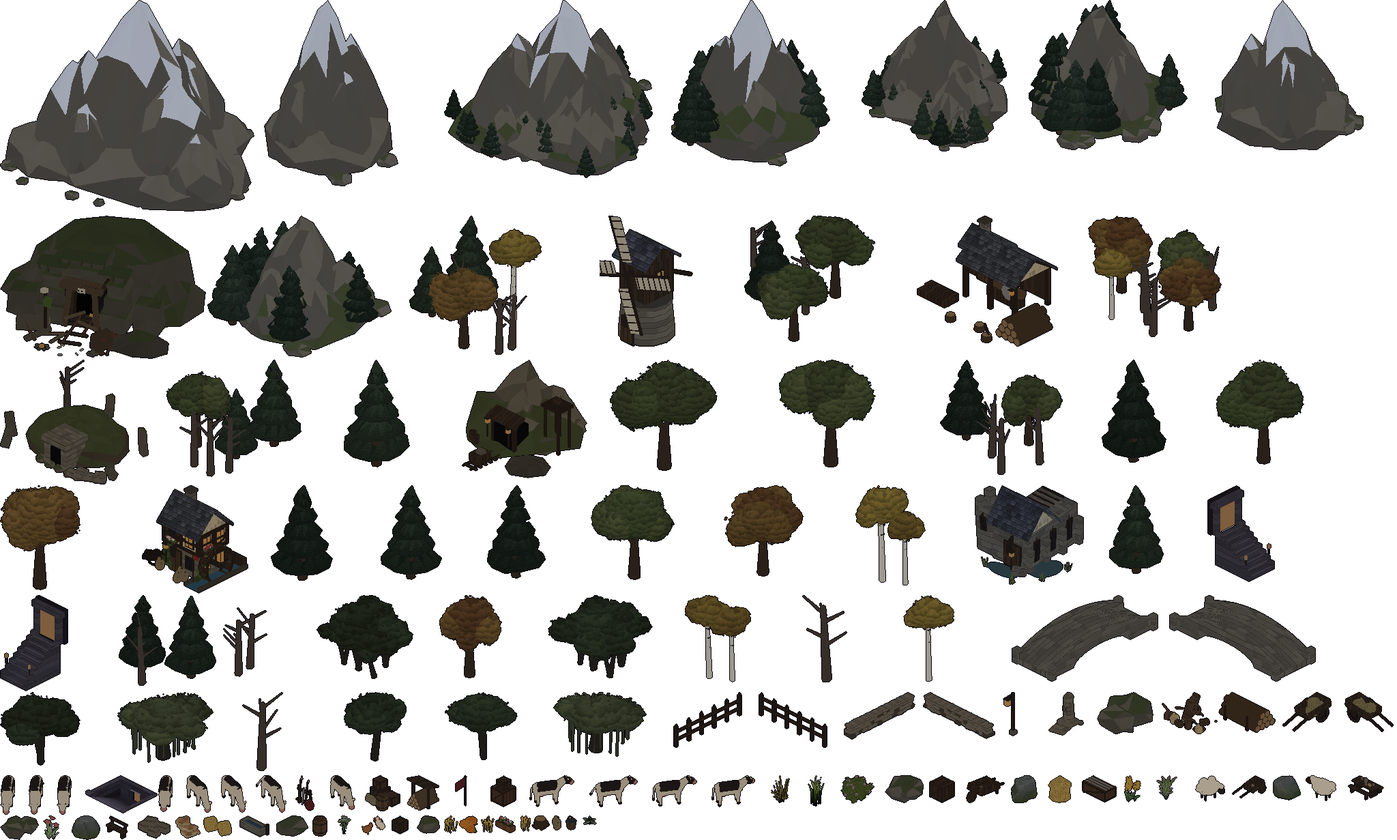
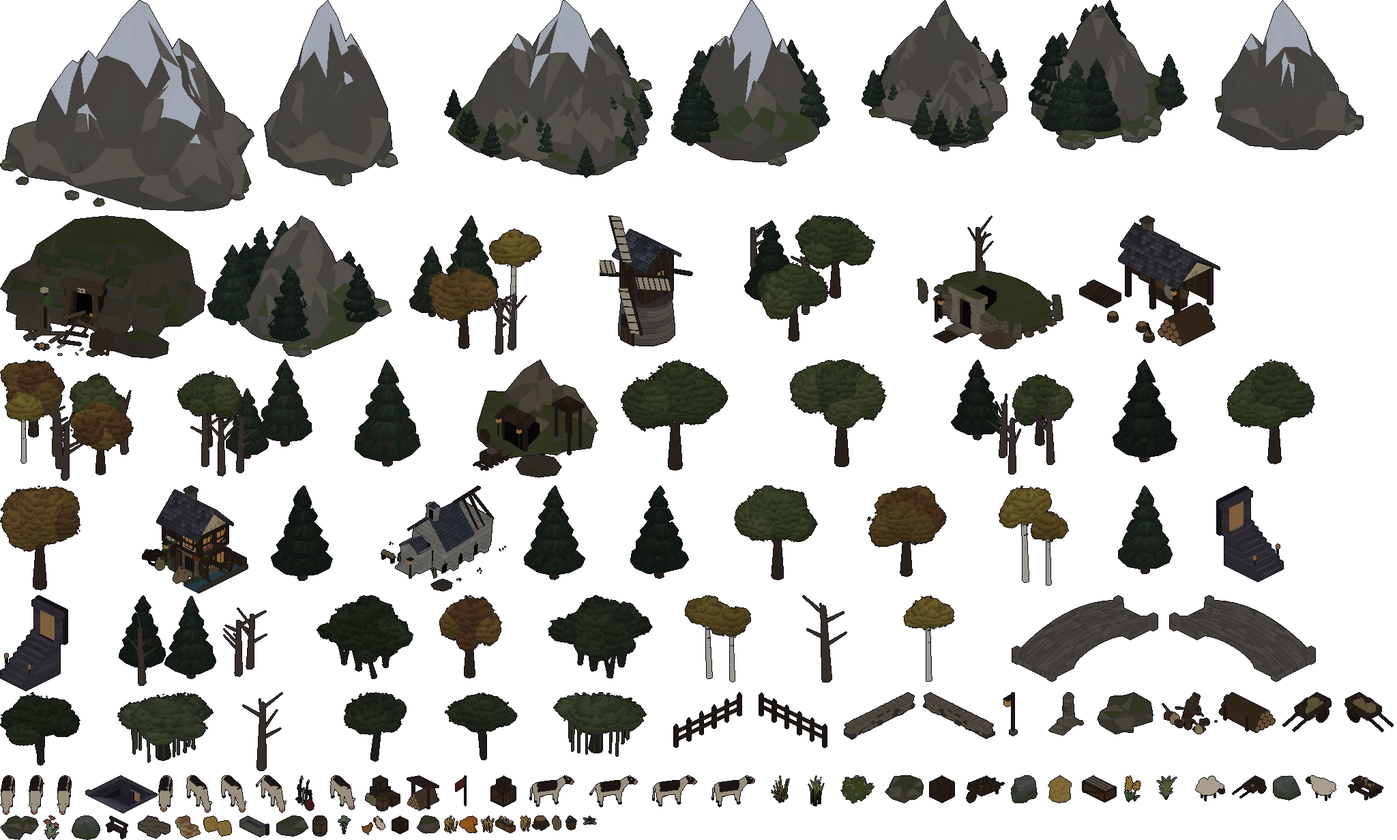
Re-bake the env atlas: the Old Barrows' and the Sunken Chapel's new designs as cards and footprints
The 2D side of the landmarks redesign (docs/vale-landmarks-proposal.md §7): the barrow and chapel cards (the
?landmarks=sprites view, the Frontier's 2D view) were the old designs, and envfoot.js their old footprints.

- bake-env.cjs --keep-missing: the nature pack (Quaternius' MegaKit, the undergrowth ug_* and rock_F/G/H) can't be
  fetched here and isn't needed for our kit; this bakes every model that's here and carries those sprites over from
  the atlas as it stands (pixels, origin, footprint, glow), naming them. envlab.js bakeAll takes the kept sprites.
- buildkit barrow: the threshold, the planks and Tobin's lantern post are dressing (they never widen the
  footprint) and the spoil heap stands beside the forecourt, so the doorway stays open.
- Re-baked: envfoot.js changed for those two only: ruin [-9.37,-9.66,9.14,6.89] -> [-9.65,-8.78,8.92,5.9] (a
  tile more open before its door than before; the exit box starts at +6), chapelruin_0 [-6.67,-5.7,7.63,8.85] ->
  [-7.17,-6.65,7.57,8.35]. Every other footprint and the four town atlases are unchanged (byte-identical).
  npm run check passes (smoke and replay included).

Claude-Session: https://claude.ai/code/session_015iJE9saRx1hCYJHRMUYeGn

Changed region(s): [[0.0, 0.247, 0.9375, 0.71], [0.5625, 0.4322, 0.625, 0.5556]]

diff --git a/src/sim/envfoot.js b/src/sim/envfoot.js
@@ -1,4 +1,4 @@
 // envfoot.js — GENERATED by tools/actor-lab/bake-env.cjs. Do not edit.
 // Ground footprint of each baked environment sprite, in tiles relative to its
 // origin: [x0, y0, x1, y1]. Used for collision and placement.
-export const ENV_FOOT = {"pine_1":[-4.13,-4.18,4.39,4.34],"pine_2":[-4.81,-4.8,5.12,5],"pine_3":[-4.98,-5.01,5,4.96],"pine_4":[-5.13,-5.38,5.48,5.19],"pine_5":[-4.8,-4.87,4.86,4.58],"pine_6":[-4.76,-4.68,4.81,4.84],"oak_1":[-6.75,-7.14,6.33,6.1],"oak_2":[-5.79,-6.35,5.76,6.08],"oak_3":[-6.48,-6.65,6.29,5.96],"oak_4":[-6.59,-6.8,6.43,6.89],"autumn_1":[-6.59,-6.88,6.22,6.33],"autumn_2":[-5.57,-5.73,5.51,5.75],"autumn_3":[-5.1,-5.47,5.08,5.06],"birch_1":[-4.93,-3.24,2.73,4.21],"birch_2":[-4.81,-4.29,4.6,3.62],"birch_3":[-5.17,-3.57,4.88,4.81],"dead_1":[-2.24,-2.81,2.66,2.62],"dead_2":[-2.56,-1.87,2.98,3.05],"grove_1":[-9.86,-8.38,6.88,6.28],"grove_2":[-10.59,-7.13,5.79,8.69],"grove_3":[-10.94,-8,11.15,9.36],"grove_4":[-10.79,-8.1,8.04,10.5],"grove_5":[-9.42,-11.89,11.01,10.13],"grove_6":[-7.78,-9.39,8.91,8.76],"bridge_0":[-3.6,-9.7,3.6,9.7],"bridge_90":[-9.7,-3.6,9.7,3.6],"rock_A":[-2.18,-2.03,2.19,2.41],"rock_B":[-2.03,-2.12,2.06,1.97],"rock_C":[-3.06,-3.35,3.32,3.55],"rock_D":[-2.7,-3.56,2.22,2.22],"rock_E":[-3.72,-3.84,4.19,6.22],"mountain_A_grass_trees":[-10.67,-10.54,11.17,11.99],"mountain_B_grass_trees":[-12.25,-12.31,11.91,11.79],"mountain_C_grass_trees":[-11.39,-10.97,11.31,12.47],"mountain_A":[-10,-10.64,10.64,10.58],"mountain_B":[-11.58,-11.7,12.29,12.11],"mountain_massif_A":[-37.07,-33.75,43.44,35.17],"mountain_massif_B":[-30.31,-33,30.17,32.15],"mountain_massif_C":[-24.46,-24.21,25.04,24.61],"ruin":[-9.37,-9.66,9.14,6.89],"mine_0":[-13.86,-13.76,9.84,11.1],"lumbermill_90":[-10.3,-7.1,9.4,8.9],"barrel":[-0.89,-0.94,0.89,0.94],"crate_A_big":[-1.12,-1.12,1.12,1.19],"crate_A_small":[-0.72,-0.72,0.72,0.79],"crate_B_big":[-1.12,-1.12,1.12,1.19],"crate_long_A":[-2.02,-1.02,2.02,1.09],"sack":[-0.62,-0.49,1.25,1.36],"wheelbarrow":[-1.32,-2.69,1.32,3.23],"weaponrack":[-1.2,-0.19,2.1,0.81],"bucket_water":[-0.65,-0.65,0.65,0.65],"resource_lumber":[-3.33,-1.78,3.33,2.15],"resource_stone":[-1.7,-1.97,1.75,0.83],"flag_red":[-0.16,-0.12,0.16,1.84],"stump":[-1.06,-1.15,1.12,1.1],"fence_0":[-0.25,-6.05,0.3,6.05],"fence_90":[-6.05,-0.3,6.05,0.25],"drywall_0":[-0.83,-5.8,0.8,5.78],"drywall_90":[-5.8,-0.8,5.78,0.83],"stairsup_0":[-2.6,-4.15,2.6,3.1],"stairsup_90":[-4.15,-2.6,3.1,2.6],"stairsdown_0":[-3.38,-3.8,3.38,3.01],"watermill_0":[-6.12,-4.3,5.3,5.38],"chapelruin_0":[-6.67,-5.7,7.63,8.85],"milestone_0":[-1.68,-1.61,1.66,3.1],"warren_0":[-19.82,-24.03,13.71,8.3],"wagon_0":[-4.9,-1.55,4.09,3.62],"ug_bush":[-2.03,-2.14,2.18,2.18],"ug_fern":[-3.54,-3.27,3.7,3.52],"ug_plant":[-1.95,-2.32,2.09,2.06],"ug_flowers_1":[-0.86,-1.12,1.22,1.11],"ug_flowers_2":[-1.3,-0.89,1.19,1.02],"ug_grass_1":[-1.48,-1.64,1.6,1.55],"ug_grass_2":[-0.81,-0.96,0.98,1.03],"ug_clover":[-1,-0.94,0.7,0.73],"ug_mushroom":[-1.62,-0.82,1.79,1.94],"rock_F":[-2.07,-1.38,1.8,2.21],"rock_G":[-2.06,-1.39,1.6,1.58],"rock_H":[-2.19,-1.07,1.91,3.1],"wheat_1":[-0.69,-0.8,0.76,0.68],"wheat_2":[-0.71,-0.84,0.73,0.93],"wheat_3":[-0.9,-0.69,0.81,0.84],"cow_1":[-2.23,-1.26,3.32,1.47],"cow_2":[-1.59,-3.37,2.14,2.06],"cow_3":[-1.78,-1.91,2.44,2.81],"sheep_1":[-2.67,-1.44,1.86,1.44],"sheep_2":[-1.46,-2.63,1.49,1.85],"hens_1":[-1.36,-1.34,1.27,2.35],"pumpkins_1":[-1.77,-1.16,1.14,1.73],"hay_1":[-2.02,-1,2.02,1.25],"hay_2":[-1.48,-1.41,1.48,1.5],"planter_1":[-1.3,-0.4,1.3,0.4],"alder_1":[-4.75,-5.67,5.55,5.23],"alder_2":[-5.24,-5.4,5.37,5.39],"alder_3":[-5.48,-4.83,5.77,4.74],"willow_1":[-7.04,-6.27,6.42,6.51],"willow_2":[-7.57,-7.83,6.93,7.54],"carr_1":[-7.28,-6.88,6.22,6.2],"carr_2":[-6.81,-6.88,6.65,6.31],"windmill_0":[-3.78,-3.78,3.78,4.58],"cart_0":[-1.7,-2.03,1.7,4.54],"cart_90":[-2.03,-1.7,4.54,1.7],"handcart_0":[-1.1,-1.08,1.1,3.26],"table_0":[-1.8,-1.45,1.8,1.45],"boxes_0":[-2,-1.32,2,2.05],"lamppost_0":[-0.38,-0.35,0.38,1.38],"bench_0":[-1.5,-0.43,1.5,0.4],"trough_0":[-1.8,-0.7,2.15,0.7],"woodpile_0":[-1.8,-1.72,1.8,1.72],"vale_tavern_1":[-8.45,-6.72,7.25,6.3],"vale_inn_1":[-7.1,-4.4,10.48,5.1],"vale_shop_1":[-4,-4,5.72,5.07],"vale_temple_1":[-6.81,-6.95,4.5,7.84],"vale_well_1":[-2.1,-1.8,2.1,1.8],"vale_house_1":[-4.3,-3.6,4.3,3.6],"vale_house_2":[-4.3,-3.6,4.3,3.6],"vale_house_3":[-4.3,-3.6,4.3,3.6],"vale_housex_1":[-3.6,-4.3,3.6,4.3],"vale_housex_2":[-3.6,-4.3,3.6,4.3],"vale_farm_1":[-9.63,-5.7,9.77,7.63],"vale_farmx_1":[-5.7,-9.77,7.63,9.63],"vale_keep_1":[-6.37,-6.45,6.37,6.45],"vale_wall_1":[-11,-1.7,11,2.1],"vale_smith_1":[-4.3,-5.36,4.8,5.2],"vale_curtain_1":[-10.09,-2,10.15,2],"vale_curtainy_1":[-2,-10.15,2,10.09],"vale_tower_1":[-4.1,-4.1,4.1,4.1],"vale_gatehousey_1":[-3,-7.5,3,7.5],"vale_cottage_1":[-3.6,-3.1,3.6,4.53],"vale_cottagex_1":[-3.1,-3.6,4.53,3.6],"vale_longhouse_1":[-6.1,-3.2,6.1,3.2],"vale_longhousex_1":[-3.2,-6.1,3.2,6.1],"vale_workshop_1":[-3.5,-3.3,6.94,4.4],"vale_workshopx_1":[-3.3,-6.94,4.4,3.5],"vale_foodstand_1":[-3.52,-1.63,3.2,2.23],"vale_standard_1":[-1,-0.4,1,0.4],"vale_lanewell_1":[-1.76,-1.3,1.76,1.3],"fens_tavern_1":[-8.45,-6.72,7.25,6.3],"fens_inn_1":[-7.1,-4.4,10.48,5.1],"fens_shop_1":[-4,-4,5.72,5.07],"fens_temple_1":[-6.81,-6.95,4.5,7.84],"fens_well_1":[-2.1,-1.8,2.1,1.8],"fens_house_1":[-4.3,-3.6,4.44,3.6],"fens_house_2":[-4.3,-3.6,4.44,3.6],"fens_house_3":[-4.3,-3.6,4.44,3.6],"fens_housex_1":[-3.6,-4.44,3.6,4.3],"fens_housex_2":[-3.6,-4.44,3.6,4.3],"fens_farm_1":[-9.63,-5.7,9.77,7.63],"fens_farmx_1":[-5.7,-9.77,7.63,9.63],"fens_keep_1":[-6.37,-6.45,6.37,6.45],"fens_wall_1":[-11,-1.7,11,2.1],"fens_smith_1":[-4.3,-5.36,4.8,5.2],"fens_curtain_1":[-10,-1.6,10.3,1.6],"fens_curtainy_1":[-1.6,-10.3,1.6,10],"fens_tower_1":[-3.7,-3.8,3.7,3.8],"fens_gatehousey_1":[-3,-7,5.7,7],"fens_stilt_1":[-4.81,-3.8,5.15,3.99],"fens_stilt_2":[-4.66,-3.8,5,3.99],"fens_stilt_3":[-4.9,-3.8,5.24,3.99],"fens_stilttavern_1":[-5.45,-6.75,5.75,6.75],"fens_cistern_1":[-2.1,-1.56,2.1,1.56],"fens_punt_1":[-1,-3.29,1,3.69],"fens_eeltrap_1":[-0.45,-0.41,1.65,0.45],"fens_boathall_1":[-10.75,-9.86,9.83,7.48],"fens_lockhall_1":[-8.1,-6,12.96,5.11],"fens_vats_1":[-6.86,-6.13,7.31,5.8],"fens_abbey_1":[-8.09,-8.86,7.95,8.39],"fens_priory_1":[-10.4,-8.86,10.43,8.9],"fens_landing_1":[-0.45,-3.2,0.55,3.2],"fens_ferrystage_1":[-3.15,-0.5,3.64,0.55],"fens_stiltinn_1":[-7.65,-4.9,7.65,4.99],"fens_cottage_1":[-3.9,-3.4,3.9,3.75],"fens_cottagex_1":[-3.4,-3.9,3.75,3.9],"fens_longhouse_1":[-6.4,-3.5,6.4,3.85],"fens_longhousex_1":[-3.5,-6.4,3.85,6.4],"fens_workshop_1":[-3.8,-3.6,6.94,4.4],"fens_workshopx_1":[-3.6,-6.94,4.4,3.8],"fens_foodstand_1":[-3.52,-1.63,3.2,2.23],"fens_standard_1":[-1,-0.4,1,0.4],"fens_lanewell_1":[-1.76,-1.3,1.76,1.3],"reach_tavern_1":[-8.45,-6.72,7.25,6.3],"reach_inn_1":[-7.1,-4.4,10.48,5.1],"reach_shop_1":[-4,-4,5.72,5.07],"reach_temple_1":[-6.81,-6.95,4.5,7.84],"reach_well_1":[-2.1,-1.8,2.1,1.8],"reach_house_1":[-4.3,-3.6,5.2,3.6],"reach_house_2":[-4.3,-3.6,5.2,3.6],"reach_house_3":[-4.3,-3.6,5.2,3.6],"reach_housex_1":[-3.6,-5.2,3.6,4.3],"reach_housex_2":[-3.6,-5.2,3.6,4.3],"reach_farm_1":[-9.63,-5.7,9.77,7.63],"reach_farmx_1":[-5.7,-9.77,7.63,9.63],"reach_keep_1":[-6.37,-6.45,6.37,6.45],"reach_wall_1":[-11,-1.7,11,2.1],"reach_smith_1":[-4.3,-5.36,4.8,5.2],"reach_curtain_1":[-10,-1.6,10.3,1.6],"reach_curtainy_1":[-1.6,-10.3,1.6,10],"reach_tower_1":[-3.7,-3.8,3.7,3.8],"reach_gatehousey_1":[-3,-7,5.7,7],"reach_cottage_1":[-3.6,-3.1,4.5,3.1],"reach_cottagex_1":[-3.1,-4.5,3.1,3.6],"reach_longhouse_1":[-6.8,-3.2,7,3.2],"reach_longhousex_1":[-3.2,-7,3.2,6.8],"reach_workshop_1":[-3.5,-3.3,6.94,4.4],"reach_workshopx_1":[-3.3,-6.94,4.4,3.5],"reach_foodstand_1":[-3.52,-1.63,3.2,2.23],"reach_standard_1":[-1,-0.4,1,0.4],"reach_lanewell_1":[-1.76,-1.3,1.76,1.3],"heights_tavern_1":[-8.45,-6.72,7.25,6.3],"heights_inn_1":[-7.1,-4.4,10.48,5.1],"heights_shop_1":[-4,-4,5.72,5.07],"heights_temple_1":[-6.81,-6.95,4.5,7.84],"heights_well_1":[-2.1,-1.8,2.1,1.8],"heights_house_1":[-4.3,-3.6,5.04,3.6],"heights_house_2":[-4.3,-3.6,5.04,3.6],"heights_house_3":[-4.3,-3.6,5.04,3.6],"heights_housex_1":[-3.6,-5.04,3.6,4.3],"heights_housex_2":[-3.6,-5.04,3.6,4.3],"heights_farm_1":[-9.63,-5.7,9.77,7.63],"heights_farmx_1":[-5.7,-9.77,7.63,9.63],"heights_keep_1":[-6.37,-6.45,6.37,6.45],"heights_wall_1":[-11,-1.7,11,2.1],"heights_smith_1":[-4.3,-5.36,4.8,5.2],"heights_curtain_1":[-10,-1.6,10.3,1.6],"heights_curtainy_1":[-1.6,-10.3,1.6,10],"heights_tower_1":[-3.7,-3.8,3.7,3.8],"heights_gatehousey_1":[-3,-7,5.7,7],"heights_cottage_1":[-3.6,-3.1,4.34,3.1],"heights_cottagex_1":[-3.1,-4.34,3.1,3.6],"heights_longhouse_1":[-6.1,-3.2,6.84,3.2],"heights_longhousex_1":[-3.2,-6.84,3.2,6.1],"heights_workshop_1":[-3.5,-3.3,6.94,4.4],"heights_workshopx_1":[-3.3,-6.94,4.4,3.5],"heights_foodstand_1":[-3.52,-1.63,3.2,2.23],"heights_standard_1":[-1,-0.4,1,0.4],"heights_lanewell_1":[-1.76,-1.35,1.76,1.35]};
+export const ENV_FOOT = {"pine_1":[-4.13,-4.18,4.39,4.34],"pine_2":[-4.81,-4.8,5.12,5],"pine_3":[-4.98,-5.01,5,4.96],"pine_4":[-5.13,-5.38,5.48,5.19],"pine_5":[-4.8,-4.87,4.86,4.58],"pine_6":[-4.76,-4.68,4.81,4.84],"oak_1":[-6.75,-7.14,6.33,6.1],"oak_2":[-5.79,-6.35,5.76,6.08],"oak_3":[-6.48,-6.65,6.29,5.96],"oak_4":[-6.59,-6.8,6.43,6.89],"autumn_1":[-6.59,-6.88,6.22,6.33],"autumn_2":[-5.57,-5.73,5.51,5.75],"autumn_3":[-5.1,-5.47,5.08,5.06],"birch_1":[-4.93,-3.24,2.73,4.21],"birch_2":[-4.81,-4.29,4.6,3.62],"birch_3":[-5.17,-3.57,4.88,4.81],"dead_1":[-2.24,-2.81,2.66,2.62],"dead_2":[-2.56,-1.87,2.98,3.05],"grove_1":[-9.86,-8.38,6.88,6.28],"grove_2":[-10.59,-7.13,5.79,8.69],"grove_3":[-10.94,-8,11.15,9.36],"grove_4":[-10.79,-8.1,8.04,10.5],"grove_5":[-9.42,-11.89,11.01,10.13],"grove_6":[-7.78,-9.39,8.91,8.76],"bridge_0":[-3.6,-9.7,3.6,9.7],"bridge_90":[-9.7,-3.6,9.7,3.6],"rock_A":[-2.18,-2.03,2.19,2.41],"rock_B":[-2.03,-2.12,2.06,1.97],"rock_C":[-3.06,-3.35,3.32,3.55],"rock_D":[-2.7,-3.56,2.22,2.22],"rock_E":[-3.72,-3.84,4.19,6.22],"mountain_A_grass_trees":[-10.67,-10.54,11.17,11.99],"mountain_B_grass_trees":[-12.25,-12.31,11.91,11.79],"mountain_C_grass_trees":[-11.39,-10.97,11.31,12.47],"mountain_A":[-10,-10.64,10.64,10.58],"mountain_B":[-11.58,-11.7,12.29,12.11],"mountain_massif_A":[-37.07,-33.75,43.44,35.17],"mountain_massif_B":[-30.31,-33,30.17,32.15],"mountain_massif_C":[-24.46,-24.21,25.04,24.61],"ruin":[-9.65,-8.78,8.92,5.9],"mine_0":[-13.86,-13.76,9.84,11.1],"lumbermill_90":[-10.3,-7.1,9.4,8.9],"barrel":[-0.89,-0.94,0.89,0.94],"crate_A_big":[-1.12,-1.12,1.12,1.19],"crate_A_small":[-0.72,-0.72,0.72,0.79],"crate_B_big":[-1.12,-1.12,1.12,1.19],"crate_long_A":[-2.02,-1.02,2.02,1.09],"sack":[-0.62,-0.49,1.25,1.36],"wheelbarrow":[-1.32,-2.69,1.32,3.23],"weaponrack":[-1.2,-0.19,2.1,0.81],"bucket_water":[-0.65,-0.65,0.65,0.65],"resource_lumber":[-3.33,-1.78,3.33,2.15],"resource_stone":[-1.7,-1.97,1.75,0.83],"flag_red":[-0.16,-0.12,0.16,1.84],"stump":[-1.06,-1.15,1.12,1.1],"fence_0":[-0.25,-6.05,0.3,6.05],"fence_90":[-6.05,-0.3,6.05,0.25],"drywall_0":[-0.83,-5.8,0.8,5.78],"drywall_90":[-5.8,-0.8,5.78,0.83],"stairsup_0":[-2.6,-4.15,2.6,3.1],"stairsup_90":[-4.15,-2.6,3.1,2.6],"stairsdown_0":[-3.38,-3.8,3.38,3.01],"watermill_0":[-6.12,-4.3,5.3,5.38],"chapelruin_0":[-7.17,-6.65,7.57,8.35],"milestone_0":[-1.68,-1.61,1.66,3.1],"warren_0":[-19.82,-24.03,13.71,8.3],"wagon_0":[-4.9,-1.55,4.09,3.62],"ug_bush":[-2.03,-2.14,2.18,2.18],"ug_fern":[-3.54,-3.27,3.7,3.52],"ug_plant":[-1.95,-2.32,2.09,2.06],"ug_flowers_1":[-0.86,-1.12,1.22,1.11],"ug_flowers_2":[-1.3,-0.89,1.19,1.02],"ug_grass_1":[-1.48,-1.64,1.6,1.55],"ug_grass_2":[-0.81,-0.96,0.98,1.03],"ug_clover":[-1,-0.94,0.7,0.73],"ug_mushroom":[-1.62,-0.82,1.79,1.94],"rock_F":[-2.07,-1.38,1.8,2.21],"rock_G":[-2.06,-1.39,1.6,1.58],"rock_H":[-2.19,-1.07,1.91,3.1],"wheat_1":[-0.69,-0.8,0.76,0.68],"wheat_2":[-0.71,-0.84,0.73,0.93],"wheat_3":[-0.9,-0.69,0.81,0.84],"cow_1":[-2.23,-1.26,3.32,1.47],"cow_2":[-1.59,-3.37,2.14,2.06],"cow_3":[-1.78,-1.91,2.44,2.81],"sheep_1":[-2.67,-1.44,1.86,1.44],"sheep_2":[-1.46,-2.63,1.49,1.85],"hens_1":[-1.36,-1.34,1.27,2.35],"pumpkins_1":[-1.77,-1.16,1.14,1.73],"hay_1":[-2.02,-1,2.02,1.25],"hay_2":[-1.48,-1.41,1.48,1.5],"planter_1":[-1.3,-0.4,1.3,0.4],"alder_1":[-4.75,-5.67,5.55,5.23],"alder_2":[-5.24,-5.4,5.37,5.39],"alder_3":[-5.48,-4.83,5.77,4.74],"willow_1":[-7.04,-6.27,6.42,6.51],"willow_2":[-7.57,-7.83,6.93,7.54],"carr_1":[-7.28,-6.88,6.22,6.2],"carr_2":[-6.81,-6.88,6.65,6.31],"windmill_0":[-3.78,-3.78,3.78,4.58],"cart_0":[-1.7,-2.03,1.7,4.54],"cart_90":[-2.03,-1.7,4.54,1.7],"handcart_0":[-1.1,-1.08,1.1,3.26],"table_0":[-1.8,-1.45,1.8,1.45],"boxes_0":[-2,-1.32,2,2.05],"lamppost_0":[-0.38,-0.35,0.38,1.38],"bench_0":[-1.5,-0.43,1.5,0.4],"trough_0":[-1.8,-0.7,2.15,0.7],"woodpile_0":[-1.8,-1.72,1.8,1.72],"vale_tavern_1":[-8.45,-6.72,7.25,6.3],"vale_inn_1":[-7.1,-4.4,10.48,5.1],"vale_shop_1":[-4,-4,5.72,5.07],"vale_temple_1":[-6.81,-6.95,4.5,7.84],"vale_well_1":[-2.1,-1.8,2.1,1.8],"vale_house_1":[-4.3,-3.6,4.3,3.6],"vale_house_2":[-4.3,-3.6,4.3,3.6],"vale_house_3":[-4.3,-3.6,4.3,3.6],"vale_housex_1":[-3.6,-4.3,3.6,4.3],"vale_housex_2":[-3.6,-4.3,3.6,4.3],"vale_farm_1":[-9.63,-5.7,9.77,7.63],"vale_farmx_1":[-5.7,-9.77,7.63,9.63],"vale_keep_1":[-6.37,-6.45,6.37,6.45],"vale_wall_1":[-11,-1.7,11,2.1],"vale_smith_1":[-4.3,-5.36,4.8,5.2],"vale_curtain_1":[-10.09,-2,10.15,2],"vale_curtainy_1":[-2,-10.15,2,10.09],"vale_tower_1":[-4.1,-4.1,4.1,4.1],"vale_gatehousey_1":[-3,-7.5,3,7.5],"vale_cottage_1":[-3.6,-3.1,3.6,4.53],"vale_cottagex_1":[-3.1,-3.6,4.53,3.6],"vale_longhouse_1":[-6.1,-3.2,6.1,3.2],"vale_longhousex_1":[-3.2,-6.1,3.2,6.1],"vale_workshop_1":[-3.5,-3.3,6.94,4.4],"vale_workshopx_1":[-3.3,-6.94,4.4,3.5],"vale_foodstand_1":[-3.52,-1.63,3.2,2.23],"vale_standard_1":[-1,-0.4,1,0.4],"vale_lanewell_1":[-1.76,-1.3,1.76,1.3],"fens_tavern_1":[-8.45,-6.72,7.25,6.3],"fens_inn_1":[-7.1,-4.4,10.48,5.1],"fens_shop_1":[-4,-4,5.72,5.07],"fens_temple_1":[-6.81,-6.95,4.5,7.84],"fens_well_1":[-2.1,-1.8,2.1,1.8],"fens_house_1":[-4.3,-3.6,4.44,3.6],"fens_house_2":[-4.3,-3.6,4.44,3.6],"fens_house_3":[-4.3,-3.6,4.44,3.6],"fens_housex_1":[-3.6,-4.44,3.6,4.3],"fens_housex_2":[-3.6,-4.44,3.6,4.3],"fens_farm_1":[-9.63,-5.7,9.77,7.63],"fens_farmx_1":[-5.7,-9.77,7.63,9.63],"fens_keep_1":[-6.37,-6.45,6.37,6.45],"fens_wall_1":[-11,-1.7,11,2.1],"fens_smith_1":[-4.3,-5.36,4.8,5.2],"fens_curtain_1":[-10,-1.6,10.3,1.6],"fens_curtainy_1":[-1.6,-10.3,1.6,10],"fens_tower_1":[-3.7,-3.8,3.7,3.8],"fens_gatehousey_1":[-3,-7,5.7,7],"fens_stilt_1":[-4.81,-3.8,5.15,3.99],"fens_stilt_2":[-4.66,-3.8,5,3.99],"fens_stilt_3":[-4.9,-3.8,5.24,3.99],"fens_stilttavern_1":[-5.45,-6.75,5.75,6.75],"fens_cistern_1":[-2.1,-1.56,2.1,1.56],"fens_punt_1":[-1,-3.29,1,3.69],"fens_eeltrap_1":[-0.45,-0.41,1.65,0.45],"fens_boathall_1":[-10.75,-9.86,9.83,7.48],"fens_lockhall_1":[-8.1,-6,12.96,5.11],"fens_vats_1":[-6.86,-6.13,7.31,5.8],"fens_abbey_1":[-8.09,-8.86,7.95,8.39],"fens_priory_1":[-10.4,-8.86,10.43,8.9],"fens_landing_1":[-0.45,-3.2,0.55,3.2],"fens_ferrystage_1":[-3.15,-0.5,3.64,0.55],"fens_stiltinn_1":[-7.65,-4.9,7.65,4.99],"fens_cottage_1":[-3.9,-3.4,3.9,3.75],"fens_cottagex_1":[-3.4,-3.9,3.75,3.9],"fens_longhouse_1":[-6.4,-3.5,6.4,3.85],"fens_longhousex_1":[-3.5,-6.4,3.85,6.4],"fens_workshop_1":[-3.8,-3.6,6.94,4.4],"fens_workshopx_1":[-3.6,-6.94,4.4,3.8],"fens_foodstand_1":[-3.52,-1.63,3.2,2.23],"fens_standard_1":[-1,-0.4,1,0.4],"fens_lanewell_1":[-1.76,-1.3,1.76,1.3],"reach_tavern_1":[-8.45,-6.72,7.25,6.3],"reach_inn_1":[-7.1,-4.4,10.48,5.1],"reach_shop_1":[-4,-4,5.72,5.07],"reach_temple_1":[-6.81,-6.95,4.5,7.84],"reach_well_1":[-2.1,-1.8,2.1,1.8],"reach_house_1":[-4.3,-3.6,5.2,3.6],"reach_house_2":[-4.3,-3.6,5.2,3.6],"reach_house_3":[-4.3,-3.6,5.2,3.6],"reach_housex_1":[-3.6,-5.2,3.6,4.3],"reach_housex_2":[-3.6,-5.2,3.6,4.3],"reach_farm_1":[-9.63,-5.7,9.77,7.63],"reach_farmx_1":[-5.7,-9.77,7.63,9.63],"reach_keep_1":[-6.37,-6.45,6.37,6.45],"reach_wall_1":[-11,-1.7,11,2.1],"reach_smith_1":[-4.3,-5.36,4.8,5.2],"reach_curtain_1":[-10,-1.6,10.3,1.6],"reach_curtainy_1":[-1.6,-10.3,1.6,10],"reach_tower_1":[-3.7,-3.8,3.7,3.8],"reach_gatehousey_1":[-3,-7,5.7,7],"reach_cottage_1":[-3.6,-3.1,4.5,3.1],"reach_cottagex_1":[-3.1,-4.5,3.1,3.6],"reach_longhouse_1":[-6.8,-3.2,7,3.2],"reach_longhousex_1":[-3.2,-7,3.2,6.8],"reach_workshop_1":[-3.5,-3.3,6.94,4.4],"reach_workshopx_1":[-3.3,-6.94,4.4,3.5],"reach_foodstand_1":[-3.52,-1.63,3.2,2.23],"reach_standard_1":[-1,-0.4,1,0.4],"reach_lanewell_1":[-1.76,-1.3,1.76,1.3],"heights_tavern_1":[-8.45,-6.72,7.25,6.3],"heights_inn_1":[-7.1,-4.4,10.48,5.1],"heights_shop_1":[-4,-4,5.72,5.07],"heights_temple_1":[-6.81,-6.95,4.5,7.84],"heights_well_1":[-2.1,-1.8,2.1,1.8],"heights_house_1":[-4.3,-3.6,5.04,3.6],"heights_house_2":[-4.3,-3.6,5.04,3.6],"heights_house_3":[-4.3,-3.6,5.04,3.6],"heights_housex_1":[-3.6,-5.04,3.6,4.3],"heights_housex_2":[-3.6,-5.04,3.6,4.3],"heights_farm_1":[-9.63,-5.7,9.77,7.63],"heights_farmx_1":[-5.7,-9.77,7.63,9.63],"heights_keep_1":[-6.37,-6.45,6.37,6.45],"heights_wall_1":[-11,-1.7,11,2.1],"heights_smith_1":[-4.3,-5.36,4.8,5.2],"heights_curtain_1":[-10,-1.6,10.3,1.6],"heights_curtainy_1":[-1.6,-10.3,1.6,10],"heights_tower_1":[-3.7,-3.8,3.7,3.8],"heights_gatehousey_1":[-3,-7,5.7,7],"heights_cottage_1":[-3.6,-3.1,4.34,3.1],"heights_cottagex_1":[-3.1,-4.34,3.1,3.6],"heights_longhouse_1":[-6.1,-3.2,6.84,3.2],"heights_longhousex_1":[-3.2,-6.84,3.2,6.1],"heights_workshop_1":[-3.5,-3.3,6.94,4.4],"heights_workshopx_1":[-3.3,-6.94,4.4,3.5],"heights_foodstand_1":[-3.52,-1.63,3.2,2.23],"heights_standard_1":[-1,-0.4,1,0.4],"heights_lanewell_1":[-1.76,-1.35,1.76,1.35]};

diff --git a/tools/actor-lab/envlab.js b/tools/actor-lab/envlab.js
@@ -246,9 +246,21 @@ window.bakeEnv = async (name, o = {}) => {
 };
 // Bake a whole manifest and shelf-pack it into three atlases (albedo RGBA, normal +
 // shadow alpha, depth-key hi/lo + emissive flag). Returns atlas PNGs + per-sprite meta.
-window.bakeAll = async (list, width = 2048) => {
+// kept: { atlas (the old atlas's albedo, a data URL), sprites: { id: its old meta } }: those sprites aren't baked but
+// carried over as they were (bake-env.cjs --keep-missing: a model whose source isn't here, the nature pack's glTF).
+window.bakeAll = async (list, width = 2048, kept = null) => {
   const items = [];
-  for (const e of list) { const r = await window.bakeEnv(e.model, { ...e, raw: true, windowSwatches: e.windows ? [14] : [] }); items.push({ e, r }); await new Promise((q) => setTimeout(q, 0)); }
+  let old = null;
+  if (kept) { const im = new Image(); im.src = kept.atlas; await im.decode(); const c = document.createElement('canvas'); c.width = im.width; c.height = im.height; old = c.getContext('2d', { willReadFrequently: true }); old.drawImage(im, 0, 0); }
+  for (const e of list) {
+    const m = kept?.sprites[e.id];
+    if (m) {                                       // (carried over: its pixels, origin, footprint and top as they were)
+      const A = old.getImageData(m.x, m.y, m.w, m.h), blank = new ImageData(m.w, m.h);
+      items.push({ e, r: { w: m.w, h: m.h, ax: m.ax, ay: m.ay, foot: m.foot, top: m.top, A, N: blank, K: blank, glowKept: m.glow || 0 } });
+      continue;
+    }
+    const r = await window.bakeEnv(e.model, { ...e, raw: true, windowSwatches: e.windows ? [14] : [] }); items.push({ e, r }); await new Promise((q) => setTimeout(q, 0));
+  }
   const order = items.map((_, i) => i).sort((p, q) => items[q].r.h - items[p].r.h);
   let x = 0, y = 0, rowH = 0; const pos = [];
   for (const i of order) { const r = items[i].r; if (x + r.w > width) { x = 0; y += rowH + 1; rowH = 0; } pos[i] = [x, y]; x += r.w + 1; rowH = Math.max(rowH, r.h); }
@@ -258,7 +270,7 @@ window.bakeAll = async (list, width = 2048) => {
   const meta = {};
   items.forEach(({ e, r }, i) => { const [px, py] = pos[i];
     xa.putImageData(r.A, px, py); xn.putImageData(r.N, px, py); xk.putImageData(r.K, px, py);
-    meta[e.id] = { x: px, y: py, w: r.w, h: r.h, ax: r.ax, ay: r.ay, foot: r.foot, top: r.top, glow: r.emi ? (e.glowId || 9) : 0, ...(e.up > 1 ? { up: e.up } : {}) }; });   // glow: its GLOW_ID (9 lit windows; 2 violet)
+    meta[e.id] = { x: px, y: py, w: r.w, h: r.h, ax: r.ax, ay: r.ay, foot: r.foot, top: r.top, glow: r.glowKept ?? (r.emi ? (e.glowId || 9) : 0), ...(e.up > 1 ? { up: e.up } : {}) }; });   // glow: its GLOW_ID (9 lit windows; 2 violet)
   return { meta, width, height: H, alb: ca.toDataURL('image/png'), nrm: cn.toDataURL('image/png'), key: ck.toDataURL('image/png') };
 };
 window.ready = true;

diff --git a/tools/actor-lab/buildkit.js b/tools/actor-lab/buildkit.js
@@ -974,14 +974,16 @@ Object.assign(TYPES, {
     for (const sx of [-1, 1]) { const up = new THREE.Mesh(faceted(new THREE.BoxGeometry(0.12, 0.43, 0.13, 1, 3, 1), r, 0.02, stoneCol), vmat()); up.position.set(0.08 + sx * 0.18, 0.215, 0.4); up.rotation.z = sx * 0.04; g.add(up); }
     const lintel = new THREE.Mesh(faceted(new THREE.BoxGeometry(0.56, 0.1, 0.16, 3, 1, 1), r, 0.02, stoneCol), vmat()); lintel.position.set(0.08, 0.47, 0.4); lintel.rotation.z = 0.02; g.add(lintel);
     const shield = new THREE.Mesh(new THREE.CylinderGeometry(0.035, 0.035, 0.012, 10), mat(null, '#7a7062')); shield.rotation.x = Math.PI / 2; shield.position.set(0.08, 0.47, 0.485); g.add(shield);
-    box(0.28, 0.02, 0.22, mat(tex('field', '#6e6a60', 22)), 0.08, 0, 0.56, g);                   // the threshold, worn
+    // (what the people walk on or past at the mouth, the threshold, the planks and Tobin's post, is dressing: the doorway
+    // stays open, the footprint the mound's and the portal's: bake-env.cjs, envfoot.js)
+    dress(box(0.28, 0.02, 0.22, mat(tex('field', '#6e6a60', 22)), 0.08, 0, 0.56, g));             // the threshold, worn
     // the Redhand's shoring in the door, their spoil heap, planks laid over the mud
     for (const sx of [-1, 1]) box(0.028, 0.37, 0.028, S.m.beam, 0.08 + sx * 0.105, 0, 0.42, g).rotation.z = sx * 0.05;
     box(0.25, 0.028, 0.035, S.m.beam, 0.08, 0.37, 0.42, g);
-    const spoil = new THREE.Mesh(faceted(solidCone(0.24, 0.17, 9), r, 0.03, (ny, y, q) => tint(C3('#5a4a38'), 0.85 + q * 0.25)), vmat()); spoil.position.set(0.58, 0.085, 0.5); g.add(spoil);
-    for (let i = 0; i < 3; i++) box(0.065, 0.01, 0.34, S.m.wood, 0.0 + i * 0.075, 0, 0.74, g).rotation.y = (r() - 0.5) * 0.12;
+    const spoil = new THREE.Mesh(faceted(solidCone(0.24, 0.17, 9), r, 0.03, (ny, y, q) => tint(C3('#5a4a38'), 0.85 + q * 0.25)), vmat()); spoil.position.set(0.6, 0.085, 0.36); g.add(spoil);   // (beside the forecourt, out of the way in)
+    for (let i = 0; i < 3; i++) dress(box(0.065, 0.01, 0.34, S.m.wood, 0.0 + i * 0.075, 0, 0.74, g)).rotation.y = (r() - 0.5) * 0.12;
     // Tobin's lantern on its post, by the mouth
-    box(0.025, 0.36, 0.025, S.m.beam, -0.3, 0, 0.6, g); box(0.1, 0.018, 0.018, S.m.beam, -0.26, 0.34, 0.6, g); lantern(g, S, -0.22, 0.3, 0.6);
+    { const n = g.children.length; box(0.025, 0.36, 0.025, S.m.beam, -0.3, 0, 0.6, g); box(0.1, 0.018, 0.018, S.m.beam, -0.26, 0.34, 0.6, g); lantern(g, S, -0.22, 0.3, 0.6); g.children.slice(n).forEach(dress); }
     // a leaning stone on the ridge, two out on the grass, the dead tree behind
     standingStone(g, r, -0.35, -0.3, 0.28, 0.1).position.y = 0.2;
     for (const [x, z, h, l] of [[-0.82, 0.32, 0.3, 0.12], [0.78, -0.55, 0.34, 0.06]]) standingStone(g, r, x, z, h, l);

diff --git a/AGENTS.md b/AGENTS.md
@@ -50,7 +50,7 @@ BAKE_OUT=dir BAKE_PROTO=features|eyes1|eyes2,grade[,stats]|off BAKE_HEAD=0.74 BA
 node tools/actor-lab/models.mjs           # the people as models for the Luminati renderer (docs/dungeon-kit-proposal.md §9.6): the KayKit models in tools/actor-lab/models/ pruned to the clips bake.json plays, the skeletons' weapons, cast.json (every actor's variant, height and clips; the faces) → assets/models/ (committed; never edit, rerun with the bake; test/models.test.mjs checks it's current)
 node tools/actor-lab/faces.cjs            # the face board: every faces.json preset and every face part → tools/actor-lab/out/faces_board.png
 node tools/actor-lab/icons.cjs [ids]      # item icons
-node tools/actor-lab/bake-env.cjs         # buildings / trees / rocks (the undergrowth needs the nature pack's glTF in tools/actor-lab/models/nature/: actor-lab README)
+node tools/actor-lab/bake-env.cjs [--keep-missing]   # buildings / trees / rocks (the undergrowth needs the nature pack's glTF in tools/actor-lab/models/nature/: actor-lab README); --keep-missing: without it, bake the rest and carry the undergrowth over as baked
 node tools/render3d/build.mjs            # Luminati as the game's world renderer (docs/luminati-port-plan.md §13): tools/render3d/world.js + Luminati's engine and world layers + three.js → src/vendor/luminati-80e1aa6/ (ES modules, committed; never edit, rebuild), imported by src/render3d/hybrid.js
 node tools/worldmap/draw.mjs              # the Old Provinces' wall map (docs/world-map-proposal.md; its places: src/ui/wallmap.js) → docs/img/world/old-provinces.jpg + .svg, and the game's copy in assets/maps/ (with its coast, old-provinces.json, for the World map's fog)
 node tools/worldmap/towns.mjs             # the region towns at one scale (docs/region-towns-proposal.md) → docs/img/towns/town-plans.jpg

diff --git a/docs/vale-landmarks-proposal.md b/docs/vale-landmarks-proposal.md
@@ -189,9 +189,14 @@ clock (`tools/capture/rig.mjs … --query landmarks=doors`).*
     chapel in the world's water;
   - `npm run check`.
 - **Not done here:**
-  - **The re-bake.** `bake-env.cjs` needs the nature pack's glTF, which this checkout lacks. So the barrow's and the
-    chapel's 2D sprites (the minimap, `?landmarks=sprites`) are still the old designs, and `envfoot.js` keeps their old
-    footprints. The next bake picks them up. The chapel's pool is `bakeOnly`, so its card keeps water.
+  - **The re-bake** (done since, 2026-11-10): `bake-env.cjs --keep-missing` bakes our kit without the nature pack, carrying
+    the undergrowth over as baked. The barrow's and the chapel's cards, the minimap's sprites and the Frontier's are
+    now the new designs. `envfoot.js` changed only for those two:
+    - the barrow `[-9.37,-9.66,9.14,6.89]` → `[-9.65,-8.78,8.92,5.9]` (its threshold, planks and Tobin's post are
+      dressing, so the doorway stays open, a tile more than before);
+    - the chapel `[-6.67,-5.7,7.63,8.85]` → `[-7.17,-6.65,7.57,8.35]`.
+
+    Every other footprint and all four town atlases came out the same. `npm run check` passes.
   - **The Keep's door torches** (Luminati's wall torch). The door's own lit windows and the brazier light it for now.
 
 ## 8. #3: the rest of the Vale's cards, as the owner chose

diff --git a/tools/actor-lab/README.md b/tools/actor-lab/README.md
@@ -49,7 +49,9 @@ The undergrowth (`ug_*`) and the scatter's rocks (`rock_F`, `rock_G`, `rock_H`) 
 Nature MegaKit** (CC0), graded in the bake to the Vale's trees (`docs/nature-pack-proposal.md`).
 - **Getting it:** download its glTF folder (from quaternius.com or itch.io) and unzip it into
   `models/nature/`. Like `models/`, it isn't committed.
-- **Without it:** `bake-env.cjs` stops and says so.
+- **Without it:** `bake-env.cjs` stops and says so; `bake-env.cjs --keep-missing` bakes every model that's here and
+  carries the undergrowth and those rocks over from the atlas as it stands (pixels, origin, footprint), naming them.
+  Our own kit (`buildkit.js`) needs nothing downloaded, so a change to it can always be baked.
 
 ## Game atlases (`bake.cjs` + `bake.json`)
 
